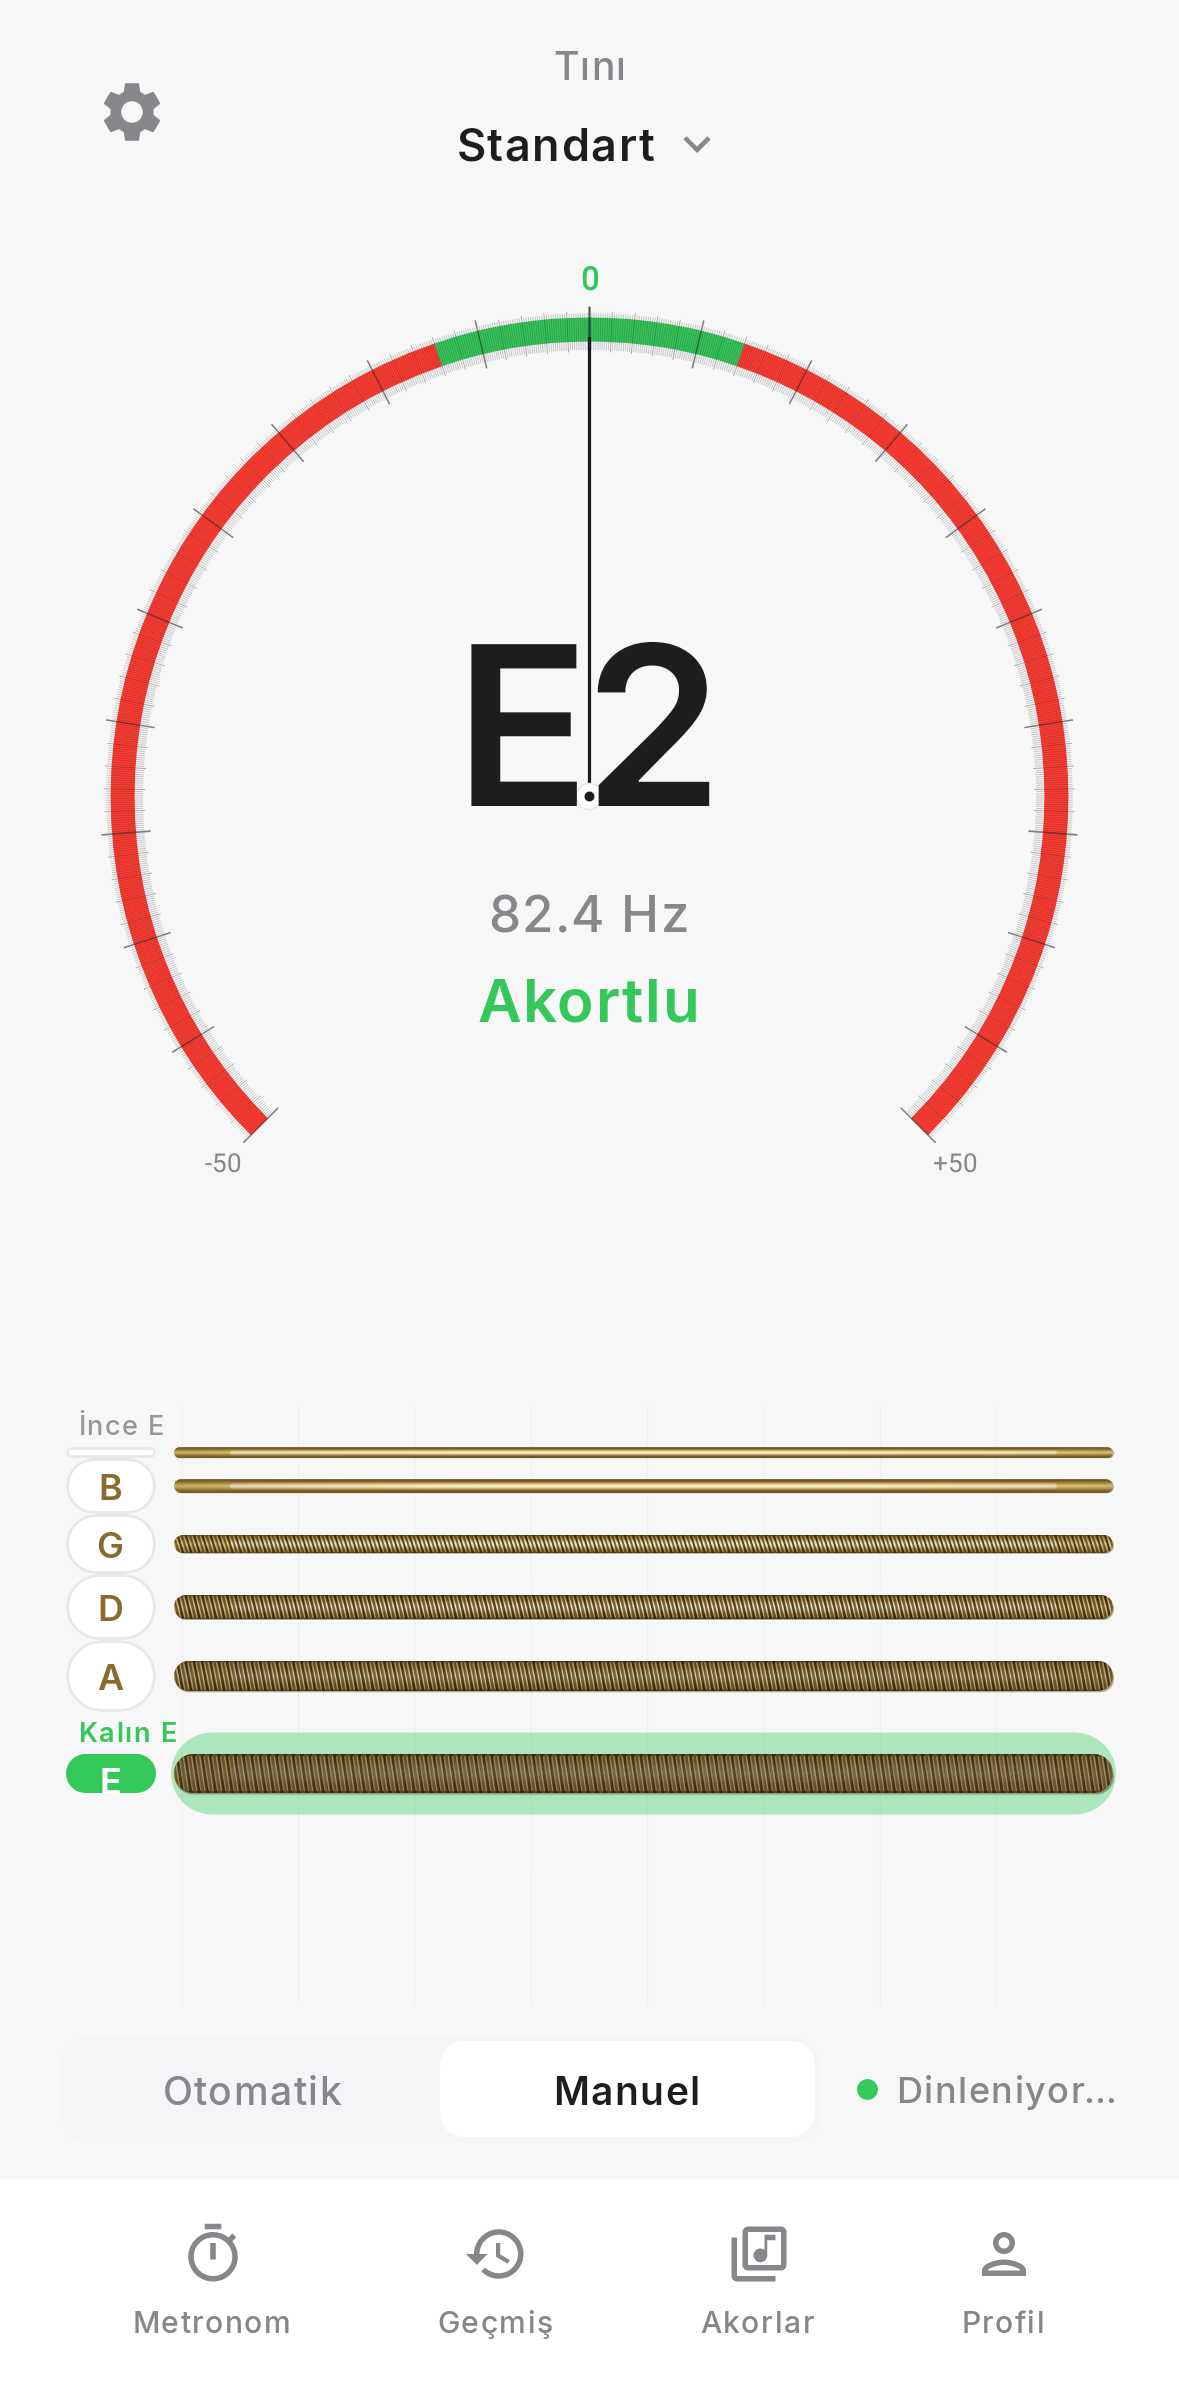
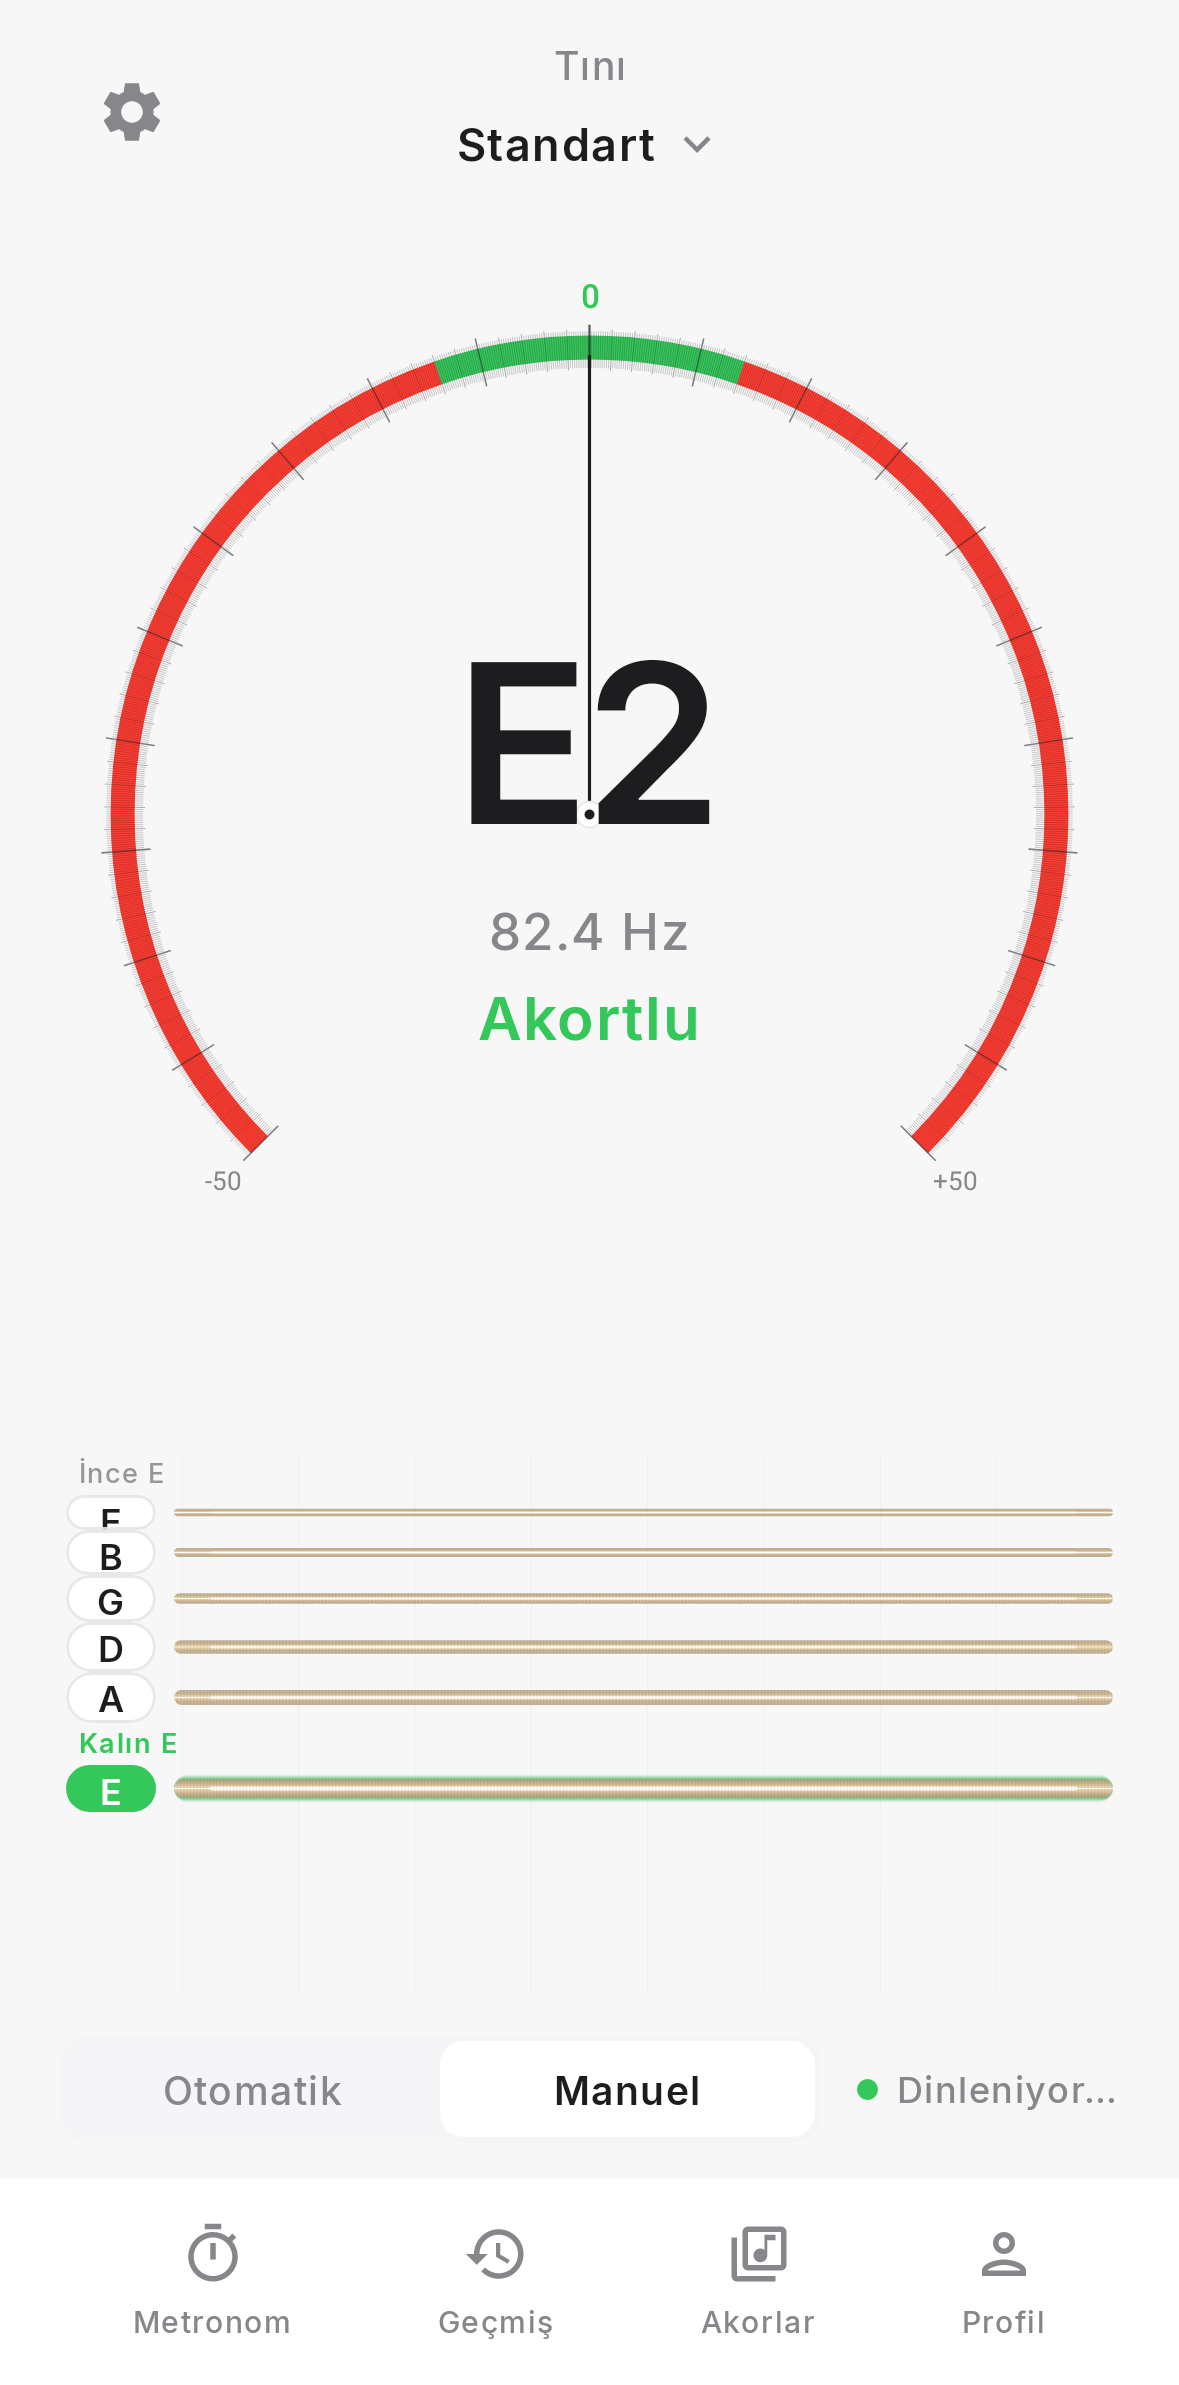
fix(ui): v3.5 slim champagne guitar string wires
Replace fat brown hashed bars with 2.5–6.5dp metallic cylinders, light
champagne gradient, center specular, fine vertical coil ridges, tight green
bloom; visible badges on all rows including İnce E.

Changed region(s): [[0.0611, 0.5895, 0.9466, 0.7757], [0.0916, 0.0931, 0.916, 0.4964], [0.3969, 0.2482, 0.6107, 0.4344]]

diff --git a/app/src/main/java/com/tini/tuner/TunerUiComponents.kt b/app/src/main/java/com/tini/tuner/TunerUiComponents.kt
@@ -44,9 +44,10 @@ import kotlin.math.sin
 
 enum class TiniNavTab { Metronome, History, Chords, Profiles }
 
-private val StringBronze = Color(0xFFC9A227)
-private val StringBronzeMid = Color(0xFFB8860B)
-private val StringBronzeDark = Color(0xFF8A6A2E)
+private val WireEdge = Color(0xFF9A886C)
+private val WireBody = Color(0xFFC9B08A)
+private val WireShine = Color(0xFFE8D5B0)
+private val WireSpec = Color(0xFFFDFBF7)
 private val NeedleDark = Color(0xFF1D1D1F)
 
 /** Almost-full circular dial (open at bottom) with note readout inside the ring. */
@@ -269,16 +270,20 @@ fun SpectrumWashBackground(
     }
 }
 
-private val StringHighlight = Color(0xFFF2E4B0)
-private val StringShadow = Color(0xFF3D2E14)
+private val WireCoilShadow = Color(0xFF8A7558)
 
-/** Diameter presets (dp) for rank 0 = thinnest (high string) … rank 5 = thickest (low E). */
+/** Slim wire diameters (dp): thinnest high string → thickest low E (~2.5× ratio, not a bar). */
 private fun stringDiameterDp(rankFromThin: Int, stringCount: Int): Dp {
-    val presets = listOf(3.5f, 4.5f, 6f, 8f, 10f, 13f)
+    val presets = listOf(2.5f, 3f, 3.5f, 4.5f, 5f, 6.5f)
     if (stringCount <= 1) return presets.first().dp
-    val idx = (rankFromThin.toFloat() / (stringCount - 1) * (presets.lastIndex)).toInt()
+    val idx = (rankFromThin.toFloat() / (stringCount - 1) * presets.lastIndex).toInt()
         .coerceIn(0, presets.lastIndex)
     return presets[idx].dp
+}
+
+private fun rowHeightForString(diameterDp: Dp, hasCaption: Boolean): Dp {
+    val base = diameterDp + 12.dp
+    return if (hasCaption) base + 11.dp else base
 }
 
 /**
@@ -296,15 +301,16 @@ fun HorizontalNeckStringSelector(
     val dataIndicesTopToBottom = strings.indices.reversed().toList()
     val rowHeights = dataIndicesTopToBottom.map { dataIndex ->
         val rank = strings.size - 1 - dataIndex
-        stringDiameterDp(rank, strings.size) + 14.dp
+        val caption = neckCaption(strings[dataIndex], dataIndex, strings.size)
+        rowHeightForString(stringDiameterDp(rank, strings.size), caption != null)
     }
-    val totalHeight = rowHeights.fold(0.dp) { acc, h -> acc + h }
+    val totalHeight = rowHeights.fold(0.dp) { acc, h -> acc + h } + 6.dp
 
     Column(
         modifier = modifier
             .fillMaxWidth()
-            .height(totalHeight.coerceAtLeast(200.dp))
-            .padding(horizontal = 2.dp)
+            .height(totalHeight.coerceAtLeast(188.dp))
+            .padding(horizontal = 2.dp, vertical = 4.dp)
     ) {
         Box(modifier = Modifier.fillMaxSize()) {
             Canvas(modifier = Modifier.fillMaxSize()) {
@@ -364,7 +370,7 @@ fun HorizontalNeckStringSelector(
                                     .weight(1f)
                                     .fillMaxHeight()
                             ) {
-                                drawGuitarStringRod(
+                                drawSlimMetalStringWire(
                                     left = 0f,
                                     right = size.width,
                                     centerY = size.height / 2f,
@@ -401,7 +407,7 @@ private fun StringNoteBadge(
     }
     val textColor = when {
         selected -> Color.White
-        else -> StringBronzeDark
+        else -> colors.TextPrimary
     }
     Box(
         modifier = Modifier
@@ -438,7 +444,7 @@ private fun neckCaption(note: String, dataIndex: Int, total: Int): String? {
     }
 }
 
-private fun DrawScope.drawGuitarStringRod(
+private fun DrawScope.drawSlimMetalStringWire(
     left: Float,
     right: Float,
     centerY: Float,
@@ -448,115 +454,77 @@ private fun DrawScope.drawGuitarStringRod(
     tuned: Boolean,
     green: Color
 ) {
-    val h = diameterPx.coerceAtLeast(4f)
+    val h = diameterPx.coerceIn(2f, 22f)
     val top = centerY - h / 2f
     val width = (right - left).coerceAtLeast(1f)
     val corner = CornerRadius(h / 2f, h / 2f)
-    val rodLeft = left
-    val rodTop = top
-    val rodSize = Size(width, h)
 
     if (selected) {
-        val glowPad = h * 0.55f
-        drawRoundRect(
-            color = green.copy(alpha = if (tuned) 0.38f else 0.24f),
-            topLeft = Offset(rodLeft - 3f, rodTop - glowPad),
-            size = Size(width + 6f, h + glowPad * 2f),
-            cornerRadius = CornerRadius((h + glowPad * 2f) / 2f)
-        )
+        val bloom = if (tuned) 0.14f else 0.10f
+        listOf(8f, 5f, 3f).forEach { pad ->
+            drawRoundRect(
+                color = green.copy(alpha = bloom * (8f / pad)),
+                topLeft = Offset(left, centerY - (h + pad) / 2f),
+                size = Size(width, h + pad),
+                cornerRadius = CornerRadius((h + pad) / 2f)
+            )
+        }
     }
-
-    drawRoundRect(
-        color = StringShadow.copy(alpha = 0.4f),
-        topLeft = Offset(rodLeft + 1f, rodTop + h * 0.12f),
-        size = Size(width, h * 0.92f),
-        cornerRadius = corner
-    )
 
     drawRoundRect(
         brush = Brush.verticalGradient(
             colorStops = arrayOf(
-                0f to Color(0xFF4A3815),
-                0.18f to Color(0xFF8B6928),
-                0.42f to Color(0xFFE6CF7A),
-                0.5f to Color(0xFFF5E8A8),
-                0.58f to Color(0xFFE6CF7A),
-                0.82f to Color(0xFF8B6928),
-                1f to Color(0xFF4A3815)
+                0f to WireEdge.copy(alpha = 0.65f),
+                0.25f to WireBody,
+                0.45f to WireShine,
+                0.5f to WireSpec,
+                0.55f to WireShine,
+                0.75f to WireBody,
+                1f to WireEdge.copy(alpha = 0.65f)
             ),
-            startY = rodTop,
-            endY = rodTop + h
+            startY = top,
+            endY = top + h
         ),
-        topLeft = Offset(rodLeft, rodTop),
-        size = rodSize,
+        topLeft = Offset(left, top),
+        size = Size(width, h),
         cornerRadius = corner
     )
 
-    drawRoundRect(
-        brush = Brush.horizontalGradient(
-            colors = listOf(
-                StringBronzeDark.copy(alpha = 0.45f),
-                Color.Transparent,
-                Color.Transparent,
-                StringBronzeDark.copy(alpha = 0.35f)
-            ),
-            startX = rodLeft,
-            endX = rodLeft + width
-        ),
-        topLeft = Offset(rodLeft, rodTop),
-        size = rodSize,
-        cornerRadius = corner
-    )
-
-    drawRoundRect(
-        brush = Brush.verticalGradient(
-            colors = listOf(
-                Color.White.copy(alpha = 0f),
-                Color.White.copy(alpha = 0.55f),
-                Color.White.copy(alpha = 0f)
-            ),
-            startY = rodTop + h * 0.22f,
-            endY = rodTop + h * 0.78f
-        ),
-        topLeft = Offset(rodLeft + width * 0.06f, rodTop + h * 0.25f),
-        size = Size(width * 0.88f, h * 0.5f),
-        cornerRadius = CornerRadius(h * 0.25f)
+    drawLine(
+        color = Color.White.copy(alpha = 0.75f),
+        start = Offset(left + width * 0.04f, centerY),
+        end = Offset(left + width * 0.96f, centerY),
+        strokeWidth = (h * 0.22f).coerceAtLeast(0.6f),
+        cap = StrokeCap.Round
     )
 
     if (wound) {
         val clip = Path().apply {
             addRoundRect(
                 androidx.compose.ui.geometry.RoundRect(
-                    left = rodLeft,
-                    top = rodTop,
-                    right = rodLeft + width,
-                    bottom = rodTop + h,
+                    left = left,
+                    top = top,
+                    right = left + width,
+                    bottom = top + h,
                     cornerRadius = corner
                 )
             )
         }
         clipPath(clip) {
-            val pitch = (h * 0.28f).coerceIn(2.2f, 4.5f)
-            var x = rodLeft - pitch
-            var ridge = 0
-            while (x < rodLeft + width + pitch) {
-                val shade = if (ridge % 2 == 0) Color(0xFF2E220C) else Color(0xFF5C4520)
+            val pitch = 1.65f
+            var x = left
+            var n = 0
+            while (x < left + width) {
                 drawLine(
-                    color = shade.copy(alpha = 0.82f),
-                    start = Offset(x, rodTop + h * 0.04f),
-                    end = Offset(x + pitch * 1.15f, rodTop + h * 0.96f),
-                    strokeWidth = (h * 0.11f).coerceAtLeast(1.4f),
+                    color = if (n % 2 == 0) WireCoilShadow.copy(alpha = 0.22f)
+                    else Color.White.copy(alpha = 0.16f),
+                    start = Offset(x, top + 1f),
+                    end = Offset(x, top + h - 1f),
+                    strokeWidth = 0.55f,
                     cap = StrokeCap.Round
                 )
-                drawLine(
-                    color = StringHighlight.copy(alpha = 0.42f),
-                    start = Offset(x + pitch * 0.42f, rodTop + h * 0.08f),
-                    end = Offset(x + pitch * 1.55f, rodTop + h * 0.92f),
-                    strokeWidth = (h * 0.06f).coerceAtLeast(0.9f),
-                    cap = StrokeCap.Round
-                )
-                x += pitch * 0.92f
-                ridge++
+                x += pitch
+                n++
             }
         }
     }

diff --git a/README.md b/README.md
@@ -259,7 +259,10 @@ Tini_app/
 - [x] Ses/akort profili kaydetme ve paylaşma (JSON)
 - [x] Bas gitar ve ukulele desteği
 
-### v3.4 ✅ (Mevcut Sürüm)
+### v3.5 ✅ (Mevcut Sürüm)
+- [x] İnce champagne tel telleri (2.5–6.5dp), merkez highlight, ince sargı çizgileri; her satırda rozet
+
+### v3.4 ✅
 - [x] Tel çizimi: dp kalınlığında 3D bronz silindirler, G–Kalın E sargı bobini
 
 ### v3.3 ✅
@@ -327,7 +330,7 @@ Bu proje MIT lisansı altında lisanslanmıştır. Detaylar için [LICENSE](LICE
 ---
 
 **Geliştirici:** [Ekrem Tezcan Sarıdağ](https://github.com/EkremTezcanSaridag)  
-**Versiyon:** 3.4  
+**Versiyon:** 3.5  
 **Son Güncelleme:** 5 Kasım 2026
 
 </div>
